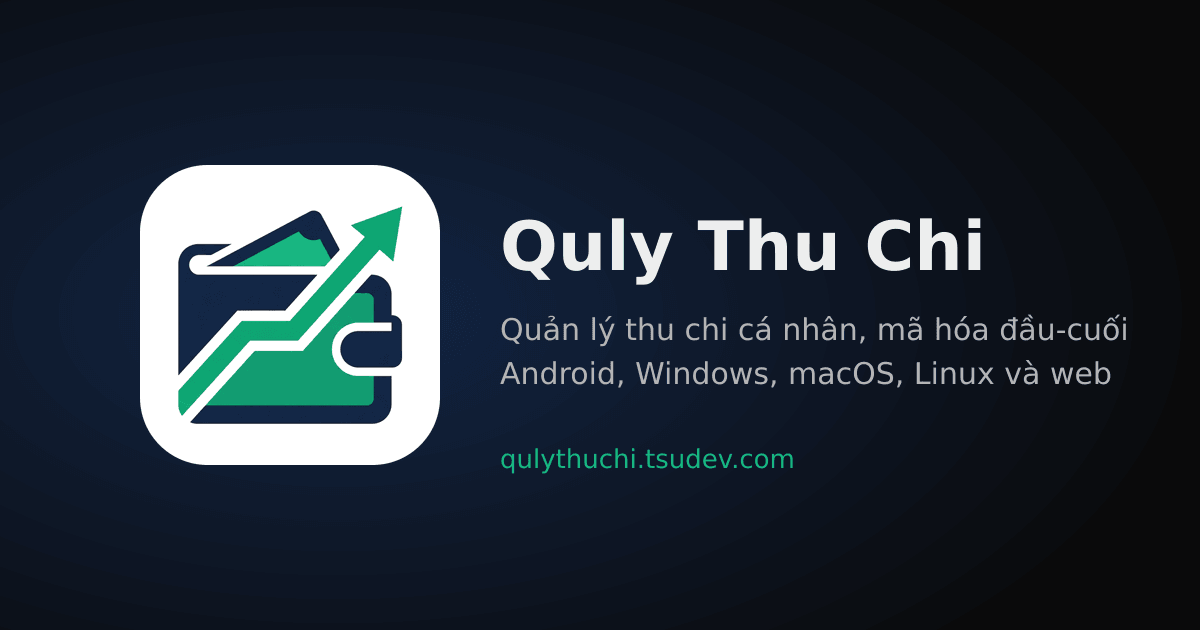
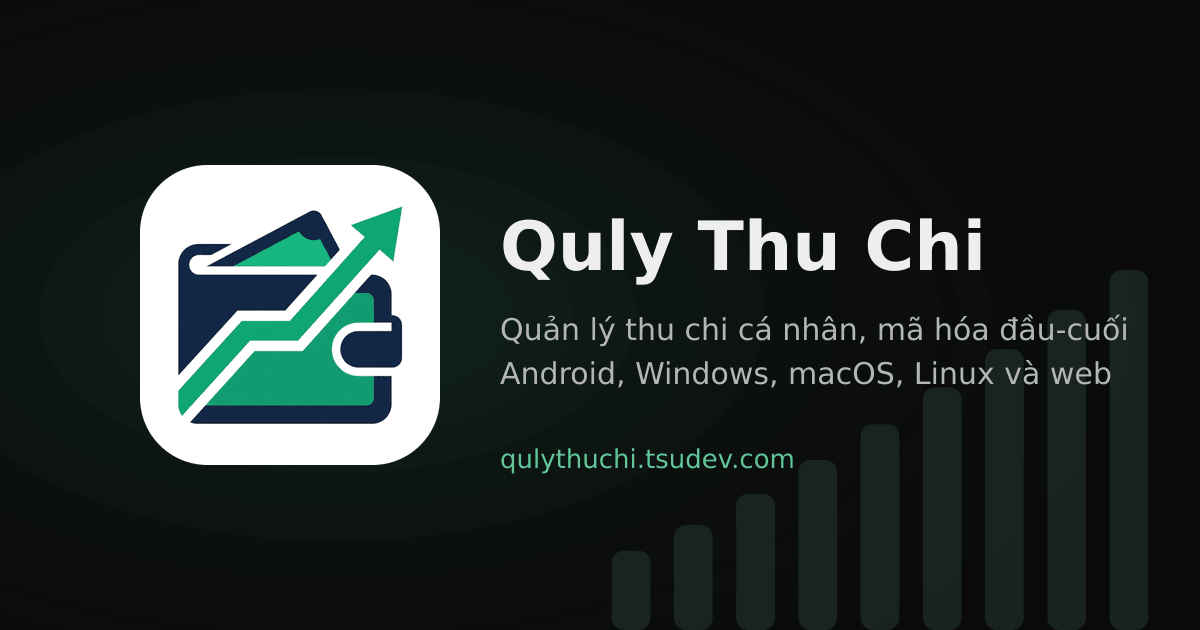
feat(ui): bố cục bang-dieu-khien + hoạ tiết cot-tang-truong (#52)
Phiếu 20261121-STD50 PR 2 (tsudev-standards v5.0.0, DESIGN_SYSTEM.md 1.2.2 + 1.2.4):
- Hoạ tiết cot-tang-truong tĩnh: một hình học (apps/site/src/lib/cot-tang-truong.mjs, độ phủ 12%, màu accent) cho
  hero website, og-image (màu Tối từ products/qulythuchi.json) và thẻ tổng số dư trong app (cot_tang_truong.dart).
- Website trang chủ: hero căn trái + hoạ tiết; thân theo bang-dieu-khien: thanh mục bên trái dính + vùng làm việc
  mở đầu bằng thẻ số liệu. Header, chân trang, bộ chọn giao diện giữ nguyên.
- og-image.png sinh lại; ảnh nổi bật Google Play giữ nguyên (đã nộp).
- Ảnh trước/sau Sáng + Tối: logs/anh/20261121-STD50/pr2-*; phiếu STD50 đóng.

Changed region(s): [[0.0, 0.1206, 0.6783, 0.8746], [0.7708, 0.7238, 0.9558, 1.0]]

diff --git a/apps/app/lib/ui/overview/overview_page.dart b/apps/app/lib/ui/overview/overview_page.dart
@@ -14,6 +14,7 @@ import '../quick_entry/quick_entry_sheet.dart';
 import '../recurring/recurring_page.dart';
 import '../transactions/txn_tile.dart';
 import '../widgets/common.dart';
+import '../widgets/cot_tang_truong.dart';
 import 'period_card.dart';
 
 class OverviewPage extends ConsumerWidget {
@@ -104,45 +105,52 @@ class OverviewPage extends ConsumerWidget {
                     _Banner(text: l.skippedRecords(data.skipped)),
                     const SizedBox(height: QtSpace.s3),
                   ],
+                  // Thẻ số liệu trên cùng của bố cục bang-dieu-khien, nền hoạ tiết cot-tang-truong (bản sắc v5.0.0).
                   Card(
-                    child: Padding(
-                      padding: const EdgeInsets.all(QtSpace.s4),
-                      child: Column(
-                        crossAxisAlignment: CrossAxisAlignment.start,
-                        children: [
-                          Text(l.overviewTotal, style: TextStyle(color: p.textSecondary)),
-                          const SizedBox(height: QtSpace.s1),
-                          if (totals.isEmpty) MoneyText(Money.zero(Currency.vnd), style: textTheme.headlineMedium),
-                          for (final m in totals.values) MoneyText(m, style: textTheme.headlineMedium),
-                          if (totals.length > 1 || (totals.length == 1 && totals.keys.first != base)) ...[
-                            const SizedBox(height: QtSpace.s2),
-                            Text(l.overviewTotalIn(base.code), style: TextStyle(color: p.textSecondary)),
-                            MoneyText(converted.total, style: textTheme.titleLarge),
-                            if (converted.missing.isNotEmpty)
-                              Text(
-                                l.ratesMissing(converted.missing.map((c) => c.code).join(', ')),
-                                style: TextStyle(color: p.warning, fontSize: QtFontSize.sm),
-                              ),
-                          ],
-                          const SizedBox(height: QtSpace.s4),
-                          Wrap(
-                            spacing: QtSpace.s6,
-                            runSpacing: QtSpace.s2,
+                    clipBehavior: Clip.antiAlias,
+                    child: Stack(
+                      children: [
+                        const Positioned(right: QtSpace.s4, bottom: 0, width: 220, height: 96, child: CotTangTruong()),
+                        Padding(
+                          padding: const EdgeInsets.all(QtSpace.s4),
+                          child: Column(
+                            crossAxisAlignment: CrossAxisAlignment.start,
                             children: [
-                              _Stat(
-                                label: l.overviewMonthIncome,
-                                icon: Icons.south_west,
-                                values: [for (final e in income.entries) Money(e.value, e.key)],
-                              ),
-                              _Stat(
-                                label: l.overviewMonthExpense,
-                                icon: Icons.north_east,
-                                values: [for (final e in expense.entries) Money(-e.value, e.key)],
+                              Text(l.overviewTotal, style: TextStyle(color: p.textSecondary)),
+                              const SizedBox(height: QtSpace.s1),
+                              if (totals.isEmpty) MoneyText(Money.zero(Currency.vnd), style: textTheme.headlineMedium),
+                              for (final m in totals.values) MoneyText(m, style: textTheme.headlineMedium),
+                              if (totals.length > 1 || (totals.length == 1 && totals.keys.first != base)) ...[
+                                const SizedBox(height: QtSpace.s2),
+                                Text(l.overviewTotalIn(base.code), style: TextStyle(color: p.textSecondary)),
+                                MoneyText(converted.total, style: textTheme.titleLarge),
+                                if (converted.missing.isNotEmpty)
+                                  Text(
+                                    l.ratesMissing(converted.missing.map((c) => c.code).join(', ')),
+                                    style: TextStyle(color: p.warning, fontSize: QtFontSize.sm),
+                                  ),
+                              ],
+                              const SizedBox(height: QtSpace.s4),
+                              Wrap(
+                                spacing: QtSpace.s6,
+                                runSpacing: QtSpace.s2,
+                                children: [
+                                  _Stat(
+                                    label: l.overviewMonthIncome,
+                                    icon: Icons.south_west,
+                                    values: [for (final e in income.entries) Money(e.value, e.key)],
+                                  ),
+                                  _Stat(
+                                    label: l.overviewMonthExpense,
+                                    icon: Icons.north_east,
+                                    values: [for (final e in expense.entries) Money(-e.value, e.key)],
+                                  ),
+                                ],
                               ),
                             ],
                           ),
-                        ],
-                      ),
+                        ),
+                      ],
                     ),
                   ),
                   const SizedBox(height: QtSpace.s4),

diff --git a/apps/site/src/styles/site.css b/apps/site/src/styles/site.css
@@ -116,3 +116,27 @@ pre:focus-visible { outline: 2px solid var(--focus-ring); }
 .the__nhan--san { color: var(--success); }
 .the .nut { margin-top: 0.9rem; }
 .muc-luc { color: var(--text-secondary); }
+
+/* Trang chủ - bố cục chữ ký bang-dieu-khien + hoạ tiết cot-tang-truong (DESIGN_SYSTEM.md mục 1.2.2, 1.2.4). */
+.hero--bang { position: relative; overflow: hidden; text-align: left; padding-block: 4.5rem 3.5rem; border-bottom: 1px solid var(--border); }
+.hero--bang .hero__chu { position: relative; }
+.hero--bang p { margin-left: 0; }
+.hero--bang .hang-nut, .hang-nut--trai { justify-content: flex-start; }
+.hoa-tiet { position: absolute; right: 0; bottom: 0; width: min(46rem, 70%); height: auto; color: var(--accent); pointer-events: none; }
+.bang-dieu-khien { display: grid; grid-template-columns: 13rem minmax(0, 1fr); gap: 2.5rem; padding-top: 2rem; }
+.bang-dieu-khien__ben ul { position: sticky; top: 5rem; list-style: none; margin: 0; padding: 0.5rem 0; display: grid; gap: 0.15rem; border-right: 1px solid var(--border); }
+.bang-dieu-khien__ben a { display: block; padding: 0.45rem 0.85rem; border-radius: var(--radius-sm); color: var(--text-secondary); text-decoration: none; font-size: 0.94rem; font-weight: 500; }
+.bang-dieu-khien__ben a:hover { color: var(--text-primary); background: var(--bg-hover); }
+.bang-dieu-khien__vung .muc { padding-block: 2.5rem 1rem; }
+.bang-dieu-khien__vung [id] { scroll-margin-top: 5rem; }
+.the-so-lieu { list-style: none; margin: 0; padding: 0; display: grid; gap: 1rem; grid-template-columns: repeat(auto-fit, minmax(11rem, 1fr)); }
+.the-so-lieu__o { background: var(--bg-surface); border: 1px solid var(--border); border-radius: var(--radius-lg); padding: 1.1rem 1.25rem; display: grid; gap: 0.25rem; }
+.the-so-lieu__so { font-family: var(--font-display); font-size: 1.9rem; font-weight: 700; line-height: 1.15; color: var(--primary); font-variant-numeric: tabular-nums; }
+.the-so-lieu__nhan { color: var(--text-secondary); font-size: 0.92rem; }
+@media (max-width: 760px) {
+  .hoa-tiet { width: 100%; }
+  .bang-dieu-khien { grid-template-columns: 1fr; gap: 1rem; padding-top: 1rem; }
+  /* Điện thoại: thanh bên thành dải mục ngang cuộn được, không dính. */
+  .bang-dieu-khien__ben ul { position: static; display: flex; overflow-x: auto; border-right: 0; border-bottom: 1px solid var(--border); scrollbar-width: none; }
+  .bang-dieu-khien__ben a { white-space: nowrap; }
+}

diff --git a/apps/app/lib/ui/widgets/cot_tang_truong.dart b/apps/app/lib/ui/widgets/cot_tang_truong.dart
@@ -1,0 +1,50 @@
+import 'dart:math' as math;
+
+import 'package:flutter/widgets.dart';
+
+import '../../theme/app_theme.dart';
+import '../../theme/tokens.g.dart';
+
+/// Hoạ tiết chữ ký `cot-tang-truong` (tsudev-standards v5.0.0, DESIGN_SYSTEM.md mục 1.2.4): cột tăng dần, TĨNH, tô
+/// `accent` với độ phủ ≤ 15%. Cùng công thức với apps/site/src/lib/cot-tang-truong.mjs (hero website + og-image).
+const cotSoCot = 9;
+const cotDoPhu = 0.12;
+
+/// Các cột trong khung [size]: cao từ 22% tới 100%, cột chiếm 62% bước.
+List<Rect> cotTangTruong(Size size, {int soCot = cotSoCot}) {
+  final buoc = size.width / soCot;
+  final be = buoc * 0.62;
+  return [
+    for (var i = 0; i < soCot; i++)
+      () {
+        final h = size.height * (0.22 + 0.78 * math.pow(i / (soCot - 1), 1.15));
+        return Rect.fromLTWH(i * buoc + (buoc - be) / 2, size.height - h, be, h);
+      }(),
+  ];
+}
+
+class CotTangTruongPainter extends CustomPainter {
+  const CotTangTruongPainter(this.color);
+  final Color color;
+
+  @override
+  void paint(Canvas canvas, Size size) {
+    final paint = Paint()..color = color.withValues(alpha: cotDoPhu);
+    final r = Radius.circular(QtRadius.sm);
+    for (final c in cotTangTruong(size)) {
+      canvas.drawRRect(RRect.fromRectAndCorners(c, topLeft: r, topRight: r), paint);
+    }
+  }
+
+  @override
+  bool shouldRepaint(CotTangTruongPainter old) => old.color != color;
+}
+
+/// Nền trang trí (không đọc bởi trình đọc màn hình), màu `accent` của bản sắc theo chế độ đang dùng.
+class CotTangTruong extends StatelessWidget {
+  const CotTangTruong({super.key});
+
+  @override
+  Widget build(BuildContext context) =>
+      ExcludeSemantics(child: CustomPaint(painter: CotTangTruongPainter(context.palette.accent)));
+}

diff --git a/apps/app/test/cot_tang_truong_test.dart b/apps/app/test/cot_tang_truong_test.dart
@@ -1,0 +1,39 @@
+import 'dart:io';
+
+import 'package:flutter/material.dart';
+import 'package:flutter_test/flutter_test.dart';
+import 'package:qulythuchi/ui/widgets/cot_tang_truong.dart';
+
+void main() {
+  test('cột tăng dần, nằm trong khung, cột cuối cao trọn khung', () {
+    final cot = cotTangTruong(const Size(640, 320));
+    expect(cot, hasLength(9));
+    for (var i = 1; i < cot.length; i++) {
+      expect(cot[i].height, greaterThan(cot[i - 1].height));
+      expect(cot[i].left, greaterThan(cot[i - 1].right));
+    }
+    expect(cot.first.height, closeTo(320 * 0.22, 0.01));
+    expect(cot.last.height, closeTo(320, 0.01));
+    expect(cot.last.right, lessThanOrEqualTo(640));
+  });
+
+  test('độ phủ ≤ 15% và cùng công thức với website (cot-tang-truong.mjs)', () {
+    expect(cotDoPhu, lessThanOrEqualTo(0.15));
+    expect(cotSoCot, 9);
+    final js = File('../site/src/lib/cot-tang-truong.mjs').readAsStringSync();
+    expect(js, contains('export const SO_COT = 9;'));
+    expect(js, contains('export const DO_PHU = 0.12;'));
+    expect(js, contains('0.22 + 0.78 * Math.pow(i / (soCot - 1), 1.15)'));
+    expect(js, contains('buoc * 0.62'));
+  });
+
+  testWidgets('vẽ được và bị loại khỏi cây ngữ nghĩa', (tester) async {
+    await tester.pumpWidget(
+      const Directionality(
+        textDirection: TextDirection.ltr,
+        child: SizedBox(width: 200, height: 80, child: CustomPaint(painter: CotTangTruongPainter(Colors.green))),
+      ),
+    );
+    expect(find.byType(CustomPaint), findsWidgets);
+  });
+}

diff --git a/logs/handover/20261121-STD50_ban-sac-san-pham-v5.0.0.md b/logs/handover/20261121-STD50_ban-sac-san-pham-v5.0.0.md
@@ -2,7 +2,7 @@
 
 - **Mã phiếu**: 20261121-STD50
 - **Từ**: phiên tsudev-standards, 21/11/2026 - **Đến**: phiên kế tiếp của `qulythuchi`
-- **Trạng thái**: ĐANG LÀM - PR 1 xong mã (agent-qulythuchi 21/11/2026), PR 2 chưa
+- **Trạng thái**: ĐÓNG - PR 1 (#51) + PR 2 (agent-qulythuchi 21/11/2026)
 - **Nguồn**: https://github.com/tsudev-org/tsudev-standards/releases/tag/v5.0.0 - `docs/DESIGN_SYSTEM.md` mục 1.2,
   CHANGELOG 5.0.0 "Hướng dẫn nâng cấp"
 - **Bối cảnh**: chủ dự án muốn mỗi sản phẩm có đặc trưng nổi bật riêng (màu, giao diện, bố cục). Trước v5.0.0, 9/11
@@ -60,3 +60,15 @@ kiểm chống trùng phải xanh. KHÔNG ghi đè tại repo này.
   - Giữ: `design/tokens.qulythuchi.json` chỉ có màu biểu đồ dataviz (không trùng vai trò chuẩn); nút Google/GitHub giữ
     màu thương hiệu của họ; `warm` ⇒ `light` đã có sẵn (app + theme.js).
   - Ảnh: `logs/anh/20261121-STD50/pr1-*` (trước/sau, Sáng/Tối).
+- **PR 2** (nhánh `feat/bo-cuc-bang-dieu-khien`):
+  - Hoạ tiết `cot-tang-truong`: một hình học `apps/site/src/lib/cot-tang-truong.mjs` (9 cột cao 22%→100%, độ phủ 12%,
+    màu `accent`) dùng cho hero website (`CotTangTruong.astro`) và `og-image.png` (`brand-assets.mjs` đọc màu Tối từ
+    `products/qulythuchi.json`); app chép đúng công thức ở `lib/ui/widgets/cot_tang_truong.dart` (test đối chiếu .mjs).
+  - Website trang chủ: hero căn trái + hoạ tiết; THÂN theo `bang-dieu-khien`: thanh bên trái dính (Tổng quan, Tính năng,
+    Riêng tư, Bắt đầu; điện thoại thành dải ngang) + vùng làm việc mở đầu bằng 4 thẻ số liệu (font tiêu đề, màu
+    `primary`). Header/chân trang/bộ chọn giao diện không đổi.
+  - App: vốn đã là `bang-dieu-khien` (NavigationRail trái từ `wideBreakpoint`, thẻ tổng số dư + thu/chi tháng trên
+    cùng màn Tổng quan) ⇒ chỉ thêm hoạ tiết vào nền thẻ số liệu đầu.
+  - `og-image.png` sinh lại; ảnh nổi bật Google Play (`assets/store/play-feature-1024x500.png`) GIỮ NGUYÊN vì đã nộp
+    lên Play Console (`ogGlow` chỉ còn cho nó) - đổi khi cập nhật hồ sơ Play.
+  - Ảnh: `logs/anh/20261121-STD50/pr2-*`.

diff --git a/CHANGELOG.md b/CHANGELOG.md
@@ -19,6 +19,8 @@ Ghi chú đầy đủ trong nội dung từng thẻ: <https://github.com/tsudev-
 - Bản sắc riêng Quly Thu Chi theo tsudev-standards v5.0.0 (STD50): màu chính xanh lục bảo `#39BA81` (Tối) / `#05794F`
   (Sáng) trên nền đen tuyền/trắng chung của hệ, bo góc mềm 6/10/14px (nút 10px), tiêu đề và số tiền lớn dùng font
   Be Vietnam Pro - cả website, web app `/app/` và app di động/desktop. Màu lấy trực tiếp từ bộ quy ước, không khai lại.
+- Trang chủ website theo bố cục "bảng điều khiển": thanh mục bên trái, thẻ số liệu trên cùng; hoạ tiết cột tăng trưởng
+  ở đầu trang, ảnh chia sẻ (og-image) và thẻ tổng số dư trong app.
 - Logo riêng Quly Thu Chi (LG1) thay logo tsudev chung: favicon, logo đầu trang website, ảnh chia sẻ, icon ứng dụng
   Android/iOS/macOS/Windows/Linux, web app `/app/`, màn chào/khóa, Cài đặt > Giới thiệu (kèm dòng "Một sản phẩm của
   TsuDEV" dẫn tsudev.com). Tệp PDF xuất có logo ở đầu trang và chân trang TsuDEV · tsudev.com. Mọi bản sinh từ một ảnh
